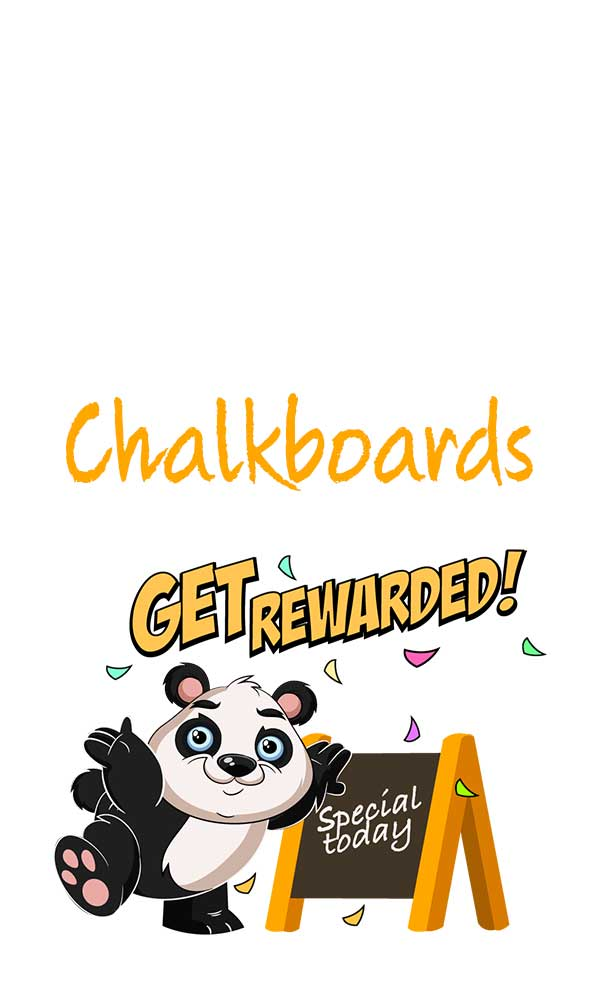
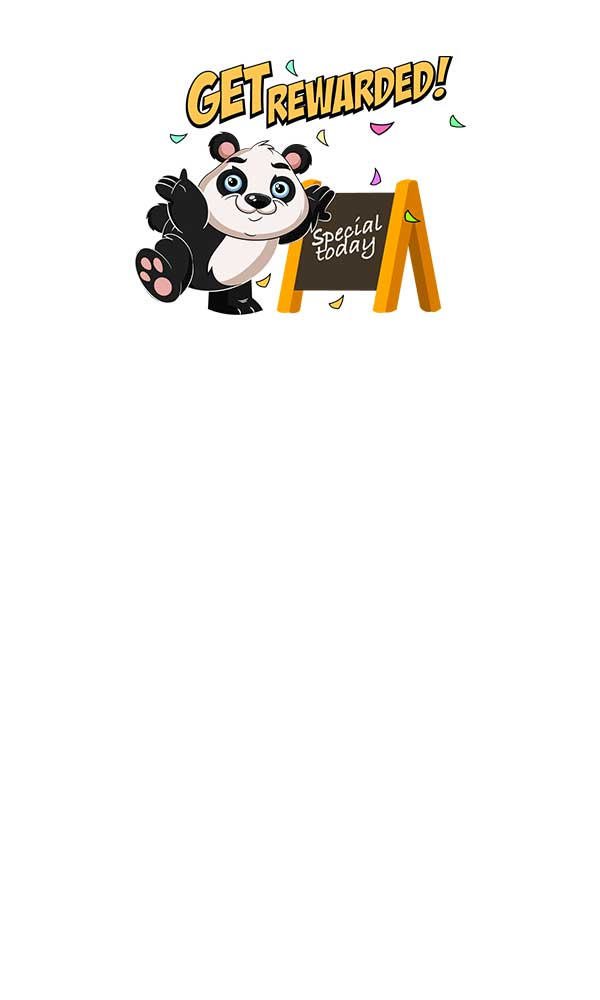
Update

diff --git a/app/app_sitelette/sitefiles/css/orinoco_theme_style.css b/app/app_sitelette/sitefiles/css/orinoco_theme_style.css
@@ -70,6 +70,11 @@
    opacity: 1;
  }
 
+ #memqr_root {
+   padding-left: 0;
+   padding-right: 0;
+ }
+
  /*RESPONSIVE
 =============================================================*/
  @media (max-width: 990px) {
@@ -240,6 +245,7 @@
 
  .heading_block.memqr {
    background: url(../images/memqr/landing.jpg) no-repeat;
+   color: rgb(0, 0, 0);
  }
 
  /* iphone 6,7,8 media query */
@@ -253,17 +259,28 @@
      -moz-background-size: auto auto;
      -o-background-size: auto auto;
      background-size: cover;
+     background-position: center;
      /* min-height: 900px; */
      margin-top: 0px;
      /*  text color */
      color: gray;
-     background-position: center;
      padding-bottom: 100px;
    }
  }
 
  .heading_block.memqr {
    background: url(../images/memqr/landing.jpg) no-repeat;
+   -webkit-background-size: auto auto;
+   -moz-background-size: auto auto;
+   -o-background-size: auto auto;
+   background-size: cover;
+   background-position: center;
+   /* min-height: 900px; */
+   margin-top: 30px;
+   /*  text color */
+   padding-bottom: 50px;
+   color: rgb(0, 0, 0);
+   text-align: center;
  }
 
  .secondary_block_pos {
@@ -272,11 +289,13 @@
    -moz-background-size: 100% auto;
    -o-background-size: 100% auto;
    background-size: cover;
+   background-position: center;
+
    /* min-height: 900px; */
    margin-top: 0px;
    /*  text color */
    color: white;
-   background-position: center;
+   padding-bottom: 0px;
  }
 
  .secondary_block_mkt {
@@ -508,6 +527,10 @@
    font-size: 36px;
    line-height: 1.2em;
    color: #ffffff;
+ }
+
+ .main_heading.memqr {
+   color: #000000;
  }
 
  /*Contact us section

diff --git a/app/app_sitelette/sitefiles/pages/common_memqr.html b/app/app_sitelette/sitefiles/pages/common_memqr.html
@@ -6,10 +6,8 @@
 			<div class="row heading_block memqr">
 				<div class="col-lg-offset-2 col-md-offset-2 col-sm-offset-2 col-xs-12 col-sm-8   col-md-8   col-lg-8">
 					<div>
-						<p class="push_down main_heading_styled">Chalkboards!</p> <!--  -->
-						<p class="main_heading">Loyalty and Order History</p>
-						<p class="main_heading">At your finger tips</p>
-
+						<p style="padding-top:250px;" class="main_heading memqr">Loyalty and Order History</p>
+						<p class="main_heading memqr">At your finger tips</p>
 					</div>
 				</div>
 			</div>

diff --git a/app/app_sitelette/sitefiles/pages_js/common_memqr.js b/app/app_sitelette/sitefiles/pages_js/common_memqr.js
@@ -36,10 +36,10 @@ $(document).ready(
     SERVER HACK, for demo keytag numbers
 
     */
-    if(iid!=='undefined'){
+    if(window.communityRequestProfile.iid!=='undefined'){
       console.log("Detected iid : " + window.communityRequestProfile.iid);
 
-      if(100<iid<199){
+      if(100<window.communityRequestProfile.iid<199){
         if(window.communityRequestProfile.api_server==='communitylive.ws'){
           window.communityRequestProfile.api_server='simfel.com';
           console.log(" detected demo keytag, switching server to simfel");

diff --git a/app/app_sitelette/sitefiles/pages/common_memqr.php b/app/app_sitelette/sitefiles/pages/common_memqr.php
@@ -13,11 +13,11 @@ include('sitefiles/includes/stylesheets.html');
 <meta name="viewport" content="width=device-width, initial-scale=1, user-scalable=no">
 <link rel="stylesheet" href="https://cdnjs.cloudflare.com/ajax/libs/font-awesome/4.7.0/css/font-awesome.css" />
 
-<link rel="apple-touch-startup-image" href="">
 <meta name="apple-mobile-web-app-capable" content="yes">
 <meta name="mobile-web-app-capable" content="yes">
-<link rel="apple-touch-icon"  href=" ">
-<link rel="icon" sizes="192x192" href=" ">
+<link rel="apple-touch-icon"  href="sitefiles/images/memqr/memqrIcon.png">
+<link rel="icon" sizes="192x192" href="sitefiles/images/memqr/memqrIcon.png">
+<link rel="apple-touch-startup-image" href="sitefiles/images/memqr/memqrIcon.png">
 
 </head>
 <body data-spy="scroll" data-target=".navbar-fixed-top" >
